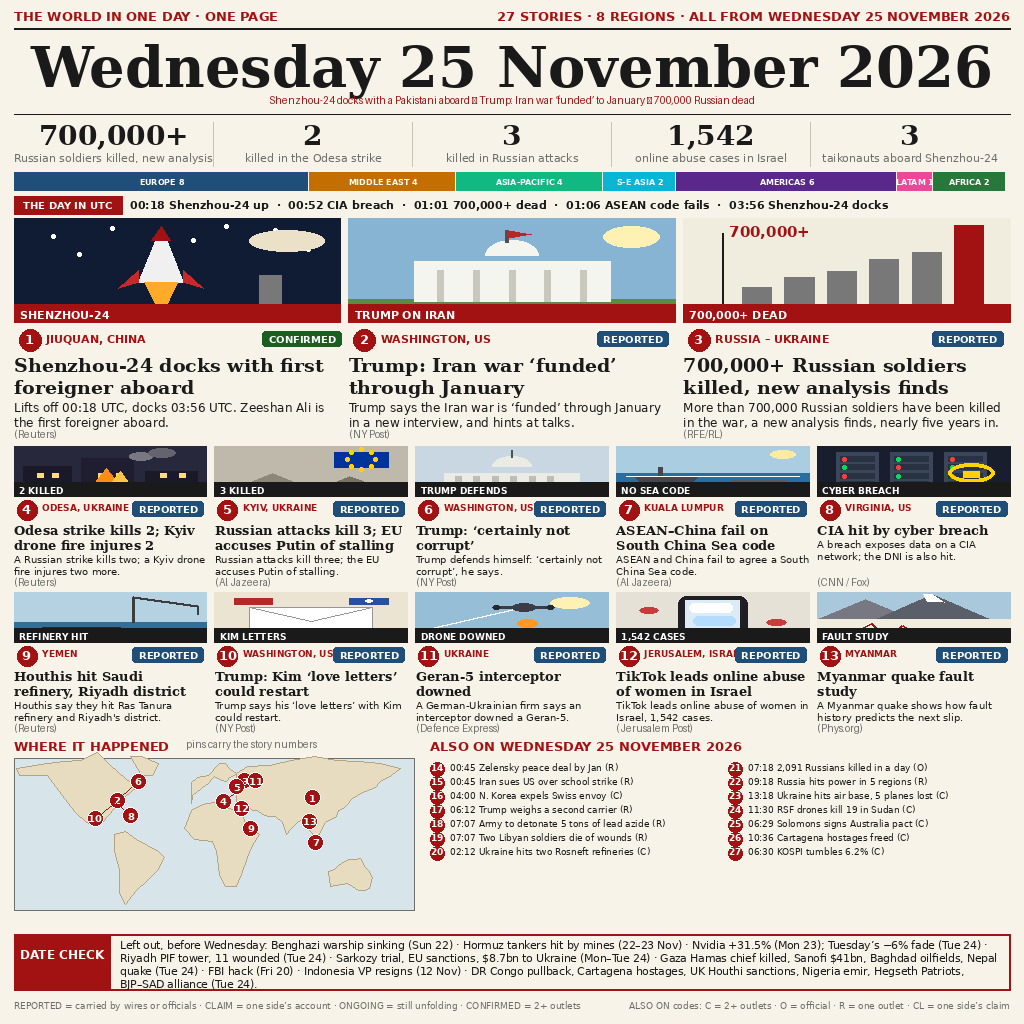
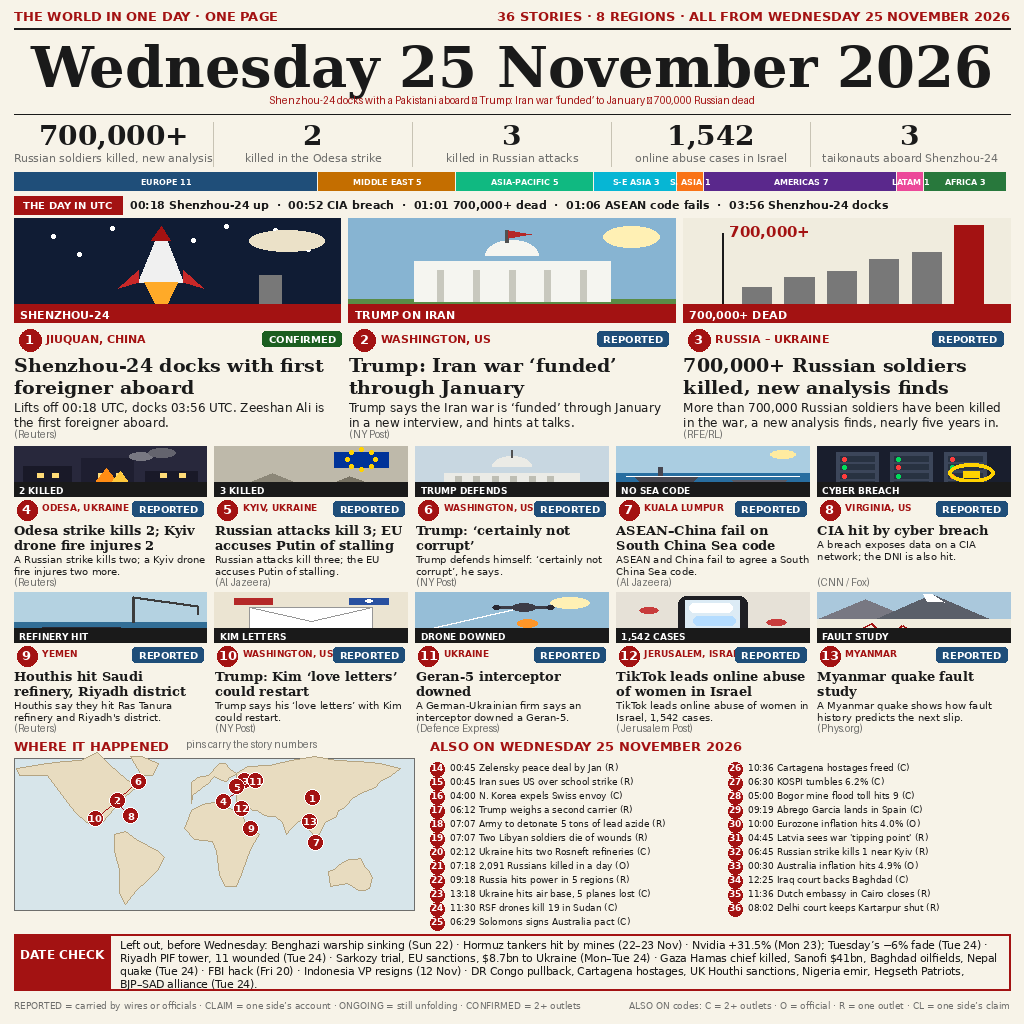
v3 Turn B: 36 stories (13 illustrated + 23 ALSO ON), 8 regions

diff --git a/draw_frontpage.py b/draw_frontpage.py
@@ -409,6 +409,15 @@ ALSO_ON = [
     (25, "06:29", "Solomons signs Australia pact", "C"),
     (26, "10:36", "Cartagena hostages freed", "C"),
     (27, "06:30", "KOSPI tumbles 6.2%", "C"),
+    (28, "05:00", "Bogor mine flood toll hits 9", "C"),
+    (29, "09:19", "Abrego Garcia lands in Spain", "C"),
+    (30, "10:00", "Eurozone inflation hits 4.0%", "O"),
+    (31, "04:45", "Latvia sees war 'tipping point'", "R"),
+    (32, "06:45", "Russian strike kills 1 near Kyiv", "R"),
+    (33, "00:30", "Australia inflation hits 4.9%", "O"),
+    (34, "12:25", "Iraq court backs Baghdad", "C"),
+    (35, "11:36", "Dutch embassy in Cairo closes", "R"),
+    (36, "08:02", "Delhi court keeps Kartarpur shut", "R"),
 ]
 
 STATS = [
@@ -428,14 +437,16 @@ TICKER = [
 ]
 
 # Turn A counts: 27 stories (19 v2 + 8 new); Turn B brings 36.
+# Final counts: 36 stories (13 illustrated + 23 ALSO ON).
 # Short names + 8pt bar labels: the 1-story segments are 27px wide.
-REGIONS = [("EUROPE", 8, (31, 78, 121)), ("MIDDLE EAST", 4, (196, 110, 0)),
-           ("ASIA-PACIFIC", 4, (16, 185, 129)),
-           ("S-E ASIA", 2, (6, 182, 212)),
-           ("S. ASIA", 0, (249, 115, 22)),
-           ("AMERICAS", 6, (90, 40, 140)),
+# Item 14 (Zelensky peace deal, from the Trump interview) counts as AMERICAS.
+REGIONS = [("EUROPE", 11, (31, 78, 121)), ("MIDDLE EAST", 5, (196, 110, 0)),
+           ("ASIA-PACIFIC", 5, (16, 185, 129)),
+           ("S-E ASIA", 3, (6, 182, 212)),
+           ("S. ASIA", 1, (249, 115, 22)),
+           ("AMERICAS", 7, (90, 40, 140)),
            ("LATAM", 1, (236, 72, 153)),
-           ("AFRICA", 2, (40, 120, 60))]
+           ("AFRICA", 3, (40, 120, 60))]
 
 DATE_CHECK = (
     "Left out, before Wednesday: Benghazi warship sinking (Sun 22) \u00b7 "
@@ -519,7 +530,7 @@ def main():
     f_top = font(SANS_B, 13)
     d.text((mx, 8), "THE WORLD IN ONE DAY \u00b7 ONE PAGE",
            font=f_top, fill=RED)
-    right = "27 STORIES \u00b7 8 REGIONS \u00b7 ALL FROM WEDNESDAY 25 NOVEMBER 2026"
+    right = "36 STORIES \u00b7 8 REGIONS \u00b7 ALL FROM WEDNESDAY 25 NOVEMBER 2026"
     d.text((W - mx, 8), right, font=f_top, fill=RED, anchor="ra")
     d.line([mx, 28, W - mx, 28], fill=INK, width=2)
 

diff --git a/README.md b/README.md
@@ -19,11 +19,11 @@ A one-page front page, 1024×1024, drawn fresh for this day:
   ASEAN–China failing on a sea code; a Geran-5 downed; TikTok abuse in
   Israel; a Myanmar quake study. Each has an original drawn scene, a
   number, a place, a certainty badge and a named source.
-- **14 more in ALSO ON**, each with a UTC time and a source code
+- **23 more in ALSO ON**, each with a UTC time and a source code
   (C = 2+ outlets, O = official, R = one outlet, CL = one side's claim),
   plus a stats strip, a UTC ticker, a region bar
   and a world map with numbered pins 1–13 matching the stories.
-- **27 stories, 8 regions:** every story was verified as first reported
+- **36 stories, 8 regions:** every story was verified as first reported
   on Wednesday 25 November 2026 (Reuters, Xinhua, Al Jazeera, RFE/RL,
   NY Post, WSJ and others). A DATE CHECK box lists what was left out
   because it happened on an earlier day.
